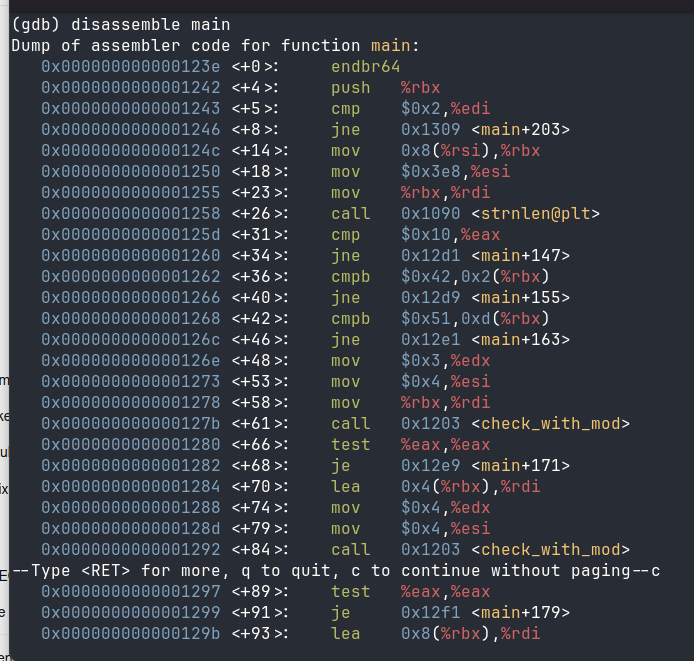
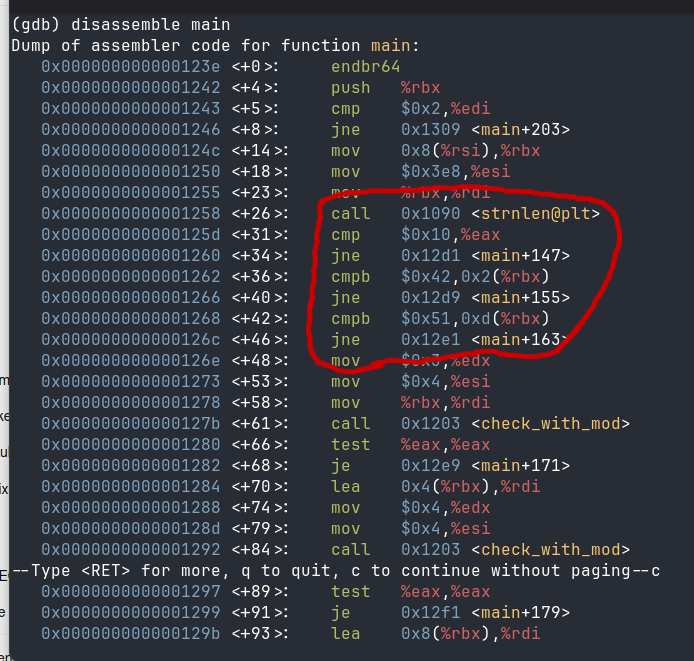
Lisää tehty README

diff --git a/h5-binaari-tassa-missa-koodit/README.md b/h5-binaari-tassa-missa-koodit/README.md
@@ -18,6 +18,8 @@ Ratkaisin tähän osioon `crackme05` ohjelman.
 
 Ensimmäisenä voimme tarkastella main funktion ohjeita 'disassemble main' komennolla.
 
+![mainfunktio](./mainfunktiocrackme05lab3.png)
+
 Me näämme main funktion ohjeista, että salasanan pituuden täytyy olla 16 merkkiä.
 
 ```
@@ -42,6 +44,8 @@ Salasanan oletettu layout on nyt:
 
 0 1 2 3 4 5 6 7 8 9 A B C D E F
 ? ? B ? ? ? ? ? ? ? ? ? ? Q ? ?
+
+---
 
 Voimme ymmärtää miten check_with_mod funktiota hyödynnetään ohjelmassa tarkastelemalla sen kutsuja main funktiossa.
 
@@ -83,7 +87,60 @@ Tämä jakaa salasanan neljään osioon:
 | 2 | password[4..7] | check_with_mod(ptr, 4, 4) |
 | 3 | password[8..11] | check_with_mod(ptr, 4, 5) |
 | 4 | password[12..15] | check_with_mod(ptr, 4, 4) |
+Jokaisen osion täytyy palauttaa `check_with_mod()` funktiosta muun kuin nollan.
+
+---
 
 Seuraavaksi voimme tarkastella itse check_with_mod funktiota 'disassemble check_with_mod' komennolla.
 
 ![check_with_mod](./check_with_modfunktiolab3.png)
+
+### Mitä `check_with_mod` tekee
+
+Käännettynä C-kieleen se on suunnilleen tällainen:
+
+```
+int check_with_mod(char *ptr, int len, int mod)
+{
+    int sum = 0;
+
+    for (int i = 0; i < len; i++)
+    {
+        sum +=  (signed char)ptr[i];
+    }
+
+    return (sum % mod) == 0;
+}
+```
+
+Eli jokaiselle 4-merkin osiolle
+
+- Lisää ASCII arvot.
+- Jaa annetulla moduluksella.
+- Jäännöksen **täytyy olla 0**.
+
+---
+
+Kaikki vaatimukset yhdessä
+
+|  Positions  |  Constraint  |
+|--------------- | --------------- |
+| 0-3 |  ASCII sum divisible by **3**.  |
+| 4-7 |  ASCII sum divisible by **4**.  |
+| 8-11 |  ASCII sum divisible by **5**.  |
+| 12-15 |  ASCII sum divisible by **4**.  |
+| 2 | Must be **B** (ASCII 66). |
+| 13 | Must be **Q** (ASCII 81). |
+| Length | Exactly **16** characters. |
+
+---
+
+**Oikean salasanan rakennus**
+Valitaan tulostettavat kirjaimet
+
+**Block 1 (positions 0-3)**
+
+Tarvitaan:
+
+$`a + b + 66 + d = 0 (mod 3)`$
+
